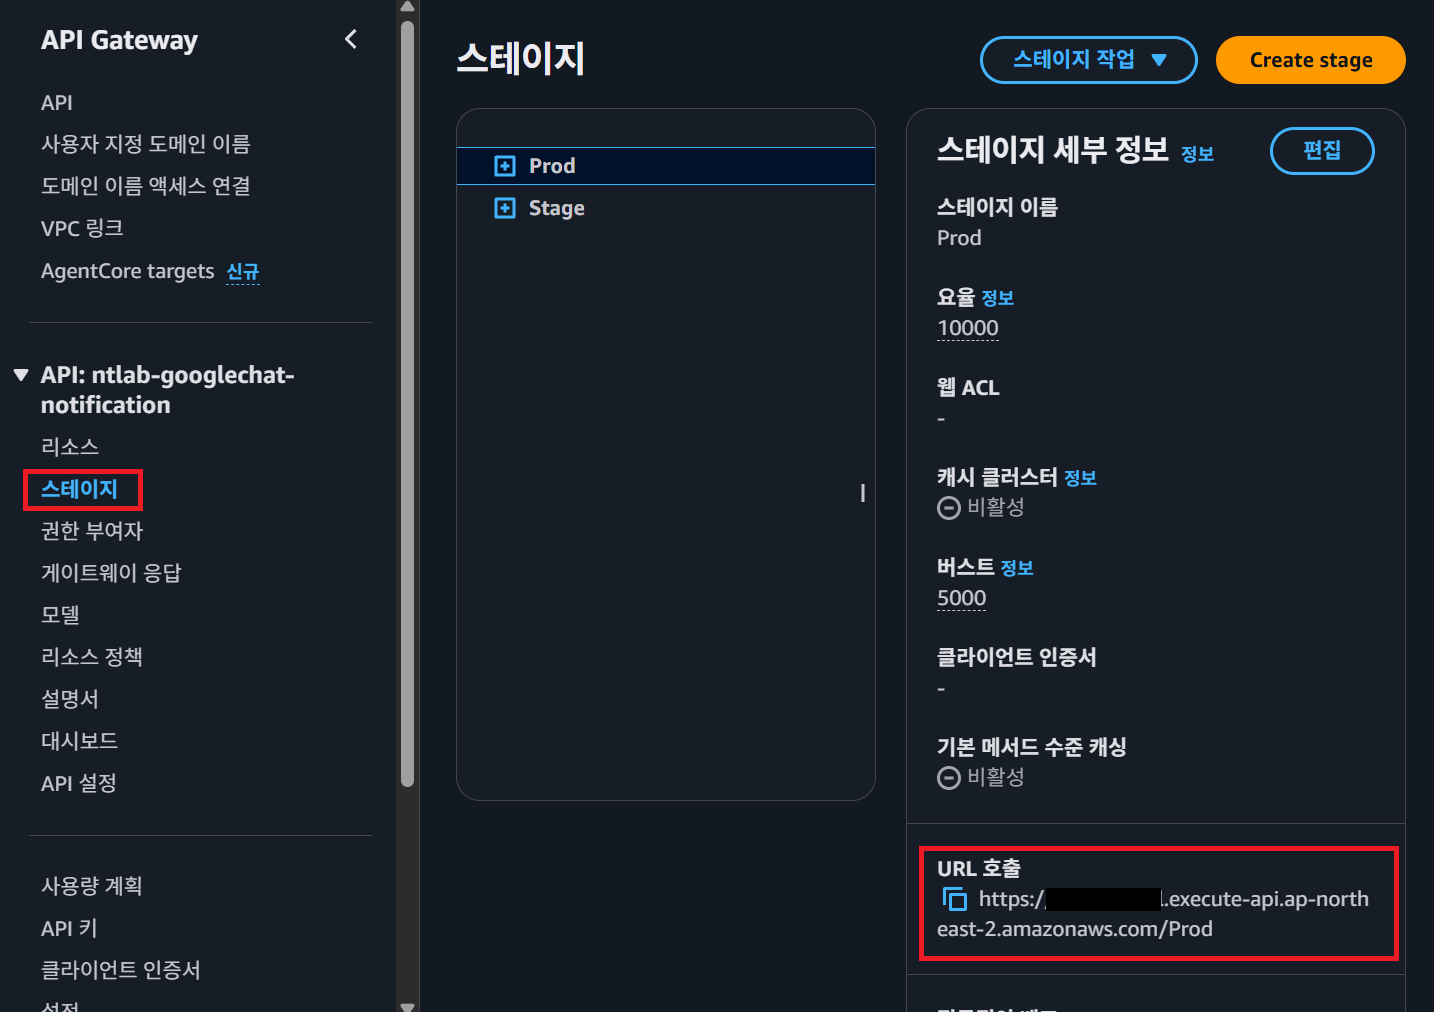
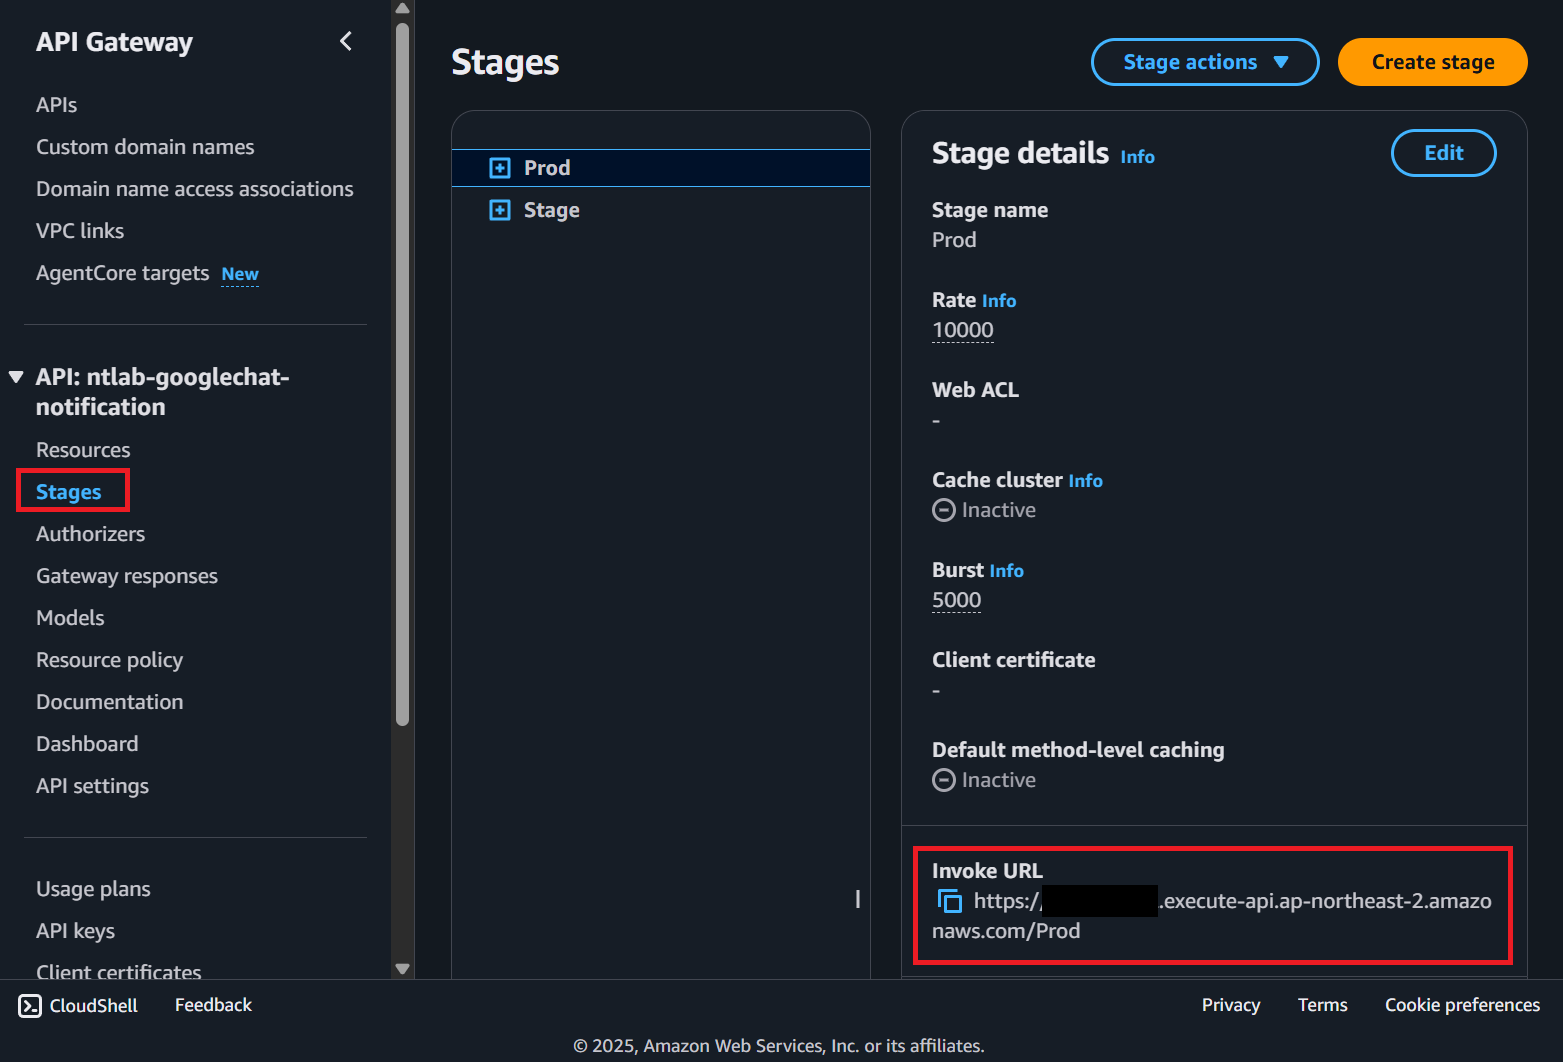
docs: update English README

diff --git a/README.md b/README.md
@@ -1,138 +1,105 @@
 # googlechat-notification ([SAM](https://docs.aws.amazon.com/serverless-application-model/latest/developerguide/what-is-sam.html))
 
-## Langusage
+## Language
 
 [한국어](./docs/README_KOR.md)
 
 ## Structure
 
-![Stucture](./docs/structure_image.png)
+![Structure](./docs/structure_image.png)
 
-This project contains source code and supporting files for a serverless application that you can deploy with the SAM CLI. It includes the following files and folders.
+1. When the API Gateway receives an external request, it invokes a Lambda function that forwards the request to SQS.
+2. The Publish Lambda validates the user's message and sends it to SQS.
+3. When a message arrives in SQS, it triggers the Notification Lambda, which sends a message to Google Chat.
+4. Because Google Chat webhooks use URLs that include authentication keys, anyone who has the URL can send messages to the chat. For security reasons, the system does not pass the webhook URL directly as a parameter. Instead, we pass a key that can be used to look up the URL, and Secrets Manager resolves the actual webhook URL.
+5. Because SQS provides “at-least-once” delivery, the same notification can be sent multiple times. To ensure idempotency, we use DynamoDB to track and prevent duplicate processing.
 
-- hello_world - Code for the application's Lambda function.
-- events - Invocation events that you can use to invoke the function.
-- tests - Unit tests for the application code. 
-- template.yaml - A template that defines the application's AWS resources.
+## Getting started
 
-The application uses several AWS resources, including Lambda functions and an API Gateway API. These resources are defined in the `template.yaml` file in this project. You can update the template to add AWS resources through the same deployment process that updates your application code.
+Rename `samconfig_back.toml` to `samconfig.toml` and update the values below to reflect your current environment.
 
-If you prefer to use an integrated development environment (IDE) to build and test your application, you can use the AWS Toolkit.  
-The AWS Toolkit is an open source plug-in for popular IDEs that uses the SAM CLI to build and deploy serverless applications on AWS. The AWS Toolkit also adds a simplified step-through debugging experience for Lambda function code. See the following links to get started.
+``` yaml
+[default.global.parameters]
+stack_name = "ntlab-googlechat-notification"
+region = {Change_to_your_region}
 
-* [CLion](https://docs.aws.amazon.com/toolkit-for-jetbrains/latest/userguide/welcome.html)
-* [GoLand](https://docs.aws.amazon.com/toolkit-for-jetbrains/latest/userguide/welcome.html)
-* [IntelliJ](https://docs.aws.amazon.com/toolkit-for-jetbrains/latest/userguide/welcome.html)
-* [WebStorm](https://docs.aws.amazon.com/toolkit-for-jetbrains/latest/userguide/welcome.html)
-* [Rider](https://docs.aws.amazon.com/toolkit-for-jetbrains/latest/userguide/welcome.html)
-* [PhpStorm](https://docs.aws.amazon.com/toolkit-for-jetbrains/latest/userguide/welcome.html)
-* [PyCharm](https://docs.aws.amazon.com/toolkit-for-jetbrains/latest/userguide/welcome.html)
-* [RubyMine](https://docs.aws.amazon.com/toolkit-for-jetbrains/latest/userguide/welcome.html)
-* [DataGrip](https://docs.aws.amazon.com/toolkit-for-jetbrains/latest/userguide/welcome.html)
-* [VS Code](https://docs.aws.amazon.com/toolkit-for-vscode/latest/userguide/welcome.html)
-* [Visual Studio](https://docs.aws.amazon.com/toolkit-for-visual-studio/latest/user-guide/welcome.html)
-
-## Deploy the sample application
-
-The Serverless Application Model Command Line Interface (SAM CLI) is an extension of the AWS CLI that adds functionality for building and testing Lambda applications. It uses Docker to run your functions in an Amazon Linux environment that matches Lambda. It can also emulate your application's build environment and API.
-
-To use the SAM CLI, you need the following tools.
-
-* SAM CLI - [Install the SAM CLI](https://docs.aws.amazon.com/serverless-application-model/latest/developerguide/serverless-sam-cli-install.html)
-* [Python 3 installed](https://www.python.org/downloads/)
-* Docker - [Install Docker community edition](https://hub.docker.com/search/?type=edition&offering=community)
-
-To build and deploy your application for the first time, run the following in your shell:
-
-```bash
-sam build --use-container
-sam deploy --guided
+[default.deploy.parameters]
+profile = {Change_to_your_profile_name_in_.aws/config_file}
+capabilities = "CAPABILITY_IAM"
+confirm_changeset = false
 ```
 
-The first command will build the source of your application. The second command will package and deploy your application to AWS, with a series of prompts:
+Execute the following `SAM` commands in order
 
-* **Stack Name**: The name of the stack to deploy to CloudFormation. This should be unique to your account and region, and a good starting point would be something matching your project name.
-* **AWS Region**: The AWS region you want to deploy your app to.
-* **Confirm changes before deploy**: If set to yes, any change sets will be shown to you before execution for manual review. If set to no, the AWS SAM CLI will automatically deploy application changes.
-* **Allow SAM CLI IAM role creation**: Many AWS SAM templates, including this example, create AWS IAM roles required for the AWS Lambda function(s) included to access AWS services. By default, these are scoped down to minimum required permissions. To deploy an AWS CloudFormation stack which creates or modifies IAM roles, the `CAPABILITY_IAM` value for `capabilities` must be provided. If permission isn't provided through this prompt, to deploy this example you must explicitly pass `--capabilities CAPABILITY_IAM` to the `sam deploy` command.
-* **Save arguments to samconfig.toml**: If set to yes, your choices will be saved to a configuration file inside the project, so that in the future you can just re-run `sam deploy` without parameters to deploy changes to your application.
-
-You can find your API Gateway Endpoint URL in the output values displayed after deployment.
-
-## Use the SAM CLI to build and test locally
-
-Build your application with the `sam build --use-container` command.
-
-```bash
-sam-googlechat-notification$ sam build --use-container
+```
+sam build
+sam deploy
 ```
 
-The SAM CLI installs dependencies defined in `hello_world/requirements.txt`, creates a deployment package, and saves it in the `.aws-sam/build` folder.
+The `sam build` command compiles the code into the `.aws-sam` directory, and `sam deploy` uses that directory to provision actual AWS resources."
 
-Test a single function by invoking it directly with a test event. An event is a JSON document that represents the input that the function receives from the event source. Test events are included in the `events` folder in this project.
+## Sending a message
 
-Run functions locally and invoke them with the `sam local invoke` command.
+### Check Endpoint
+You need to verify the endpoint for sending messages. Once the resources are deployed to AWS via `sam deploy`, check the AWS API Gateway to locate the endpoint URL.
 
-```bash
-sam-googlechat-notification$ sam local invoke HelloWorldFunction --event events/event.json
+![alt text](./docs/APIGateway.png)
+
+> Invoke URL : {Invoke URL in the picture}/googlechat/notify
+
+To send messages, this API requires a `JSON` payload containing both `webhookKey` and `payload`. The Publish `Lambda` function will return an error if the request is missing these keys. Therefore, you must store the Key and URL data in AWS `Secrets Manager` to resolve the `webhookKey` to the actual Google Chat Webhook URL.
+
+Example
+![alt text](./docs/secrets_manager.png)
+
+### Message Structure
+
+- webhookKey: The key used to retrieve the Google Chat Webhook URL from AWS `Secrets Manager`.
+- payload: A `JSON` object formatted according to the Google Chat CardV2 schema.
+
+Example
+``` json
+{
+   "webhookKey":"my_service",
+   "payload":{
+      "cardsV2":[
+         {
+            "cardId":"unique-card-id",
+            "card":{
+               "header":{
+                  "title":"Hello!",
+                  "subtitle":"Notification System"
+               },
+               "sections":[
+                  {
+                     "header":"Header",
+                     "widgets":[
+                        {
+                           "textParagraph":{
+                              "text":"Hello!"
+                           }
+                        }
+                     ]
+                  }
+               ]
+            }
+         }
+      ]
+   }
+}
 ```
 
-The SAM CLI can also emulate your application's API. Use the `sam local start-api` to run the API locally on port 3000.
+## Implementing Idempotency with DynamoDB
 
-```bash
-sam-googlechat-notification$ sam local start-api
-sam-googlechat-notification$ curl http://localhost:3000/
-```
+`SQS` operates on an 'at-least-once' delivery model, meaning duplicate messages can be delivered at any time. To prevent duplicate processing, I use `DynamoDB` to implement a locking mechanism (optimistic locking) and store the completion status after processing.
 
-The SAM CLI reads the application template to determine the API's routes and the functions that they invoke. The `Events` property on each function's definition includes the route and method for each path.
+### Why I Chose DynamoDB
 
-```yaml
-      Events:
-        HelloWorld:
-          Type: Api
-          Properties:
-            Path: /hello
-            Method: get
-```
+- Cost Efficiency: Since the system is expected to handle a low volume of notifications, a pay-as-you-go service is the most cost-effective solution.
+- TTL Support: The database stores processing status temporarily to ensure exactly-once processing of SQS messages. Unlike traditional RDBs, DynamoDB offers a built-in Time to Live (TTL) feature that automatically expires data without extra management overhead. Plus, TTL deletions in DynamoDB are free of charge.
 
-## Add a resource to your application
-The application template uses AWS Serverless Application Model (AWS SAM) to define application resources. AWS SAM is an extension of AWS CloudFormation with a simpler syntax for configuring common serverless application resources such as functions, triggers, and APIs. For resources not included in [the SAM specification](https://github.com/awslabs/serverless-application-model/blob/master/versions/2016-10-31.md), you can use standard [AWS CloudFormation](https://docs.aws.amazon.com/AWSCloudFormation/latest/UserGuide/aws-template-resource-type-ref.html) resource types.
+### Processing Logic
 
-## Fetch, tail, and filter Lambda function logs
-
-To simplify troubleshooting, SAM CLI has a command called `sam logs`. `sam logs` lets you fetch logs generated by your deployed Lambda function from the command line. In addition to printing the logs on the terminal, this command has several nifty features to help you quickly find the bug.
-
-`NOTE`: This command works for all AWS Lambda functions; not just the ones you deploy using SAM.
-
-```bash
-sam-googlechat-notification$ sam logs -n HelloWorldFunction --stack-name "sam-googlechat-notification" --tail
-```
-
-You can find more information and examples about filtering Lambda function logs in the [SAM CLI Documentation](https://docs.aws.amazon.com/serverless-application-model/latest/developerguide/serverless-sam-cli-logging.html).
-
-## Tests
-
-Tests are defined in the `tests` folder in this project. Use PIP to install the test dependencies and run tests.
-
-```bash
-sam-googlechat-notification$ pip install -r tests/requirements.txt --user
-# unit test
-sam-googlechat-notification$ python -m pytest tests/unit -v
-# integration test, requiring deploying the stack first.
-# Create the env variable AWS_SAM_STACK_NAME with the name of the stack we are testing
-sam-googlechat-notification$ AWS_SAM_STACK_NAME="sam-googlechat-notification" python -m pytest tests/integration -v
-```
-
-## Cleanup
-
-To delete the sample application that you created, use the AWS CLI. Assuming you used your project name for the stack name, you can run the following:
-
-```bash
-sam delete --stack-name "sam-googlechat-notification"
-```
-
-## Resources
-
-See the [AWS SAM developer guide](https://docs.aws.amazon.com/serverless-application-model/latest/developerguide/what-is-sam.html) for an introduction to SAM specification, the SAM CLI, and serverless application concepts.
-
-Next, you can use AWS Serverless Application Repository to deploy ready to use Apps that go beyond hello world samples and learn how authors developed their applications: [AWS Serverless Application Repository main page](https://aws.amazon.com/serverless/serverlessrepo/)
+1. Lock Acquisition: Before processing a message, apply the `attribute_not_exists(message_id)` condition to prevent concurrent processing of the same message_id.
+2. Completion: Upon successful processing, update the status in the database. If processing fails, delete the item from the database to release the lock.
+3. Automatic Cleanup: Configure TTL (Time to Live) on the stored data to prevent indefinite data accumulation.

diff --git a/docs/README_KOR.md b/docs/README_KOR.md
@@ -42,7 +42,7 @@ sam deploy
 ### Endpoint 확인
 메시지를 보내기 위한 Endpoint를 확인해야 합니다. `sam deploy`를 해서 실제 `AWS`에 리소스가 배포 되었다면 실제 `AWS`의 `API Gateway`를 보고 Endpoint를 확인해야 합니다.
 
-![alt text](APIGateway.png)
+![alt text](APIGateway_KOR.png)
 
 > 호출 URL : {위에서 확인한 URL 호출}/googlechat/notify
 
@@ -51,7 +51,7 @@ sam deploy
 이 API는 메시지를 보내기 위해서는 `webhookKey`와 `payload` 키로 이루어진 `json` 데이터를 보내야 합니다.  `webhookKey`와 `payload`키가 없는 `json`이 들어오면 Pulish `Lambda`에서 에러를 리턴합니다. 그래서 `webhookKey`를 가지고 실제 Googlechat webhook url을 해결하기 위해서 `Secrets Manager`에 Key와 URL 데이터를 입력해야합니다.
 
 예시
-![alt text](secrets_manager.png)
+![alt text](secrets_manager_KOR.png)
 
 
 ### Message structure
